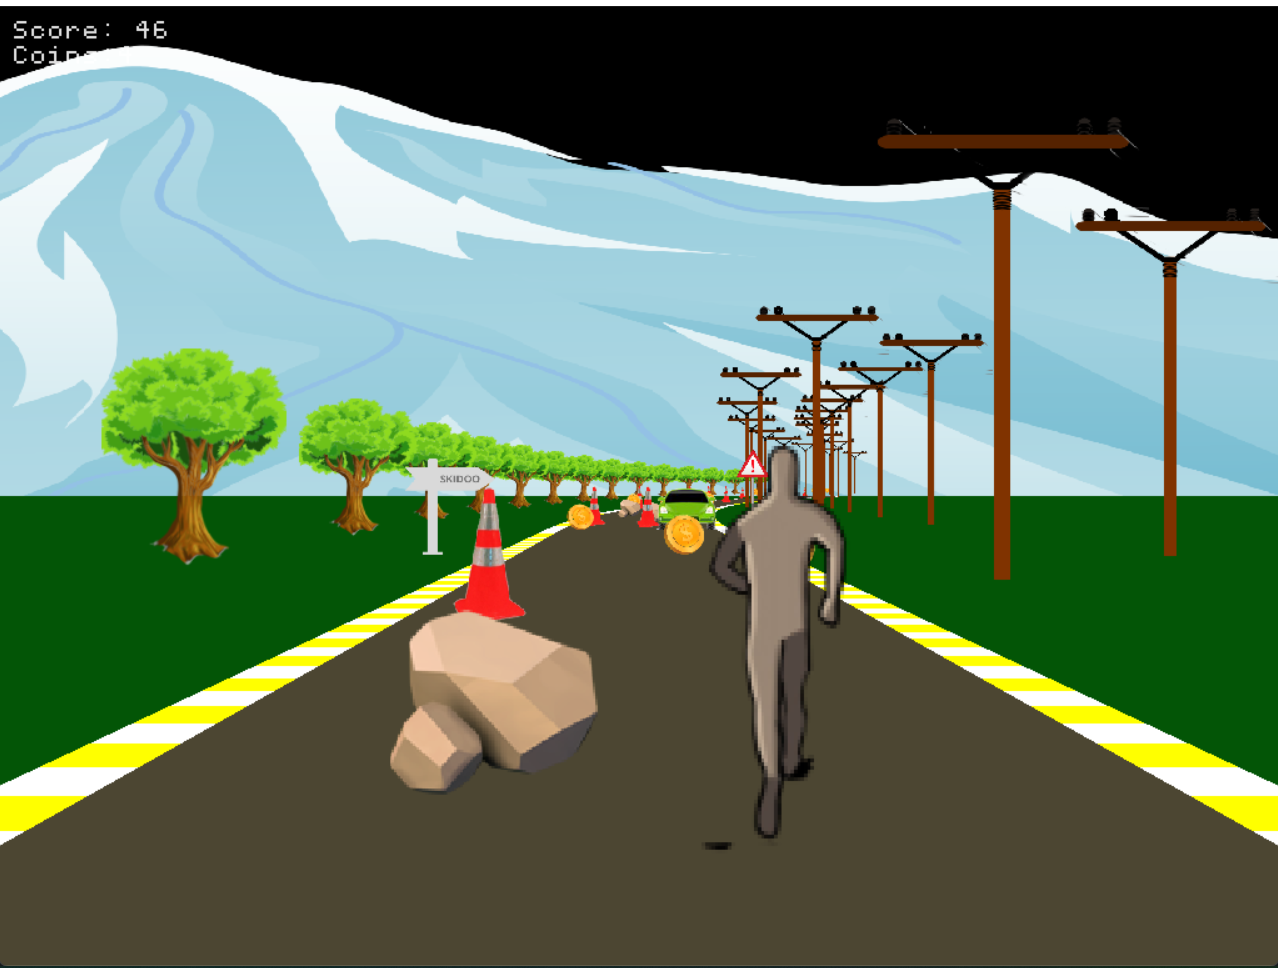
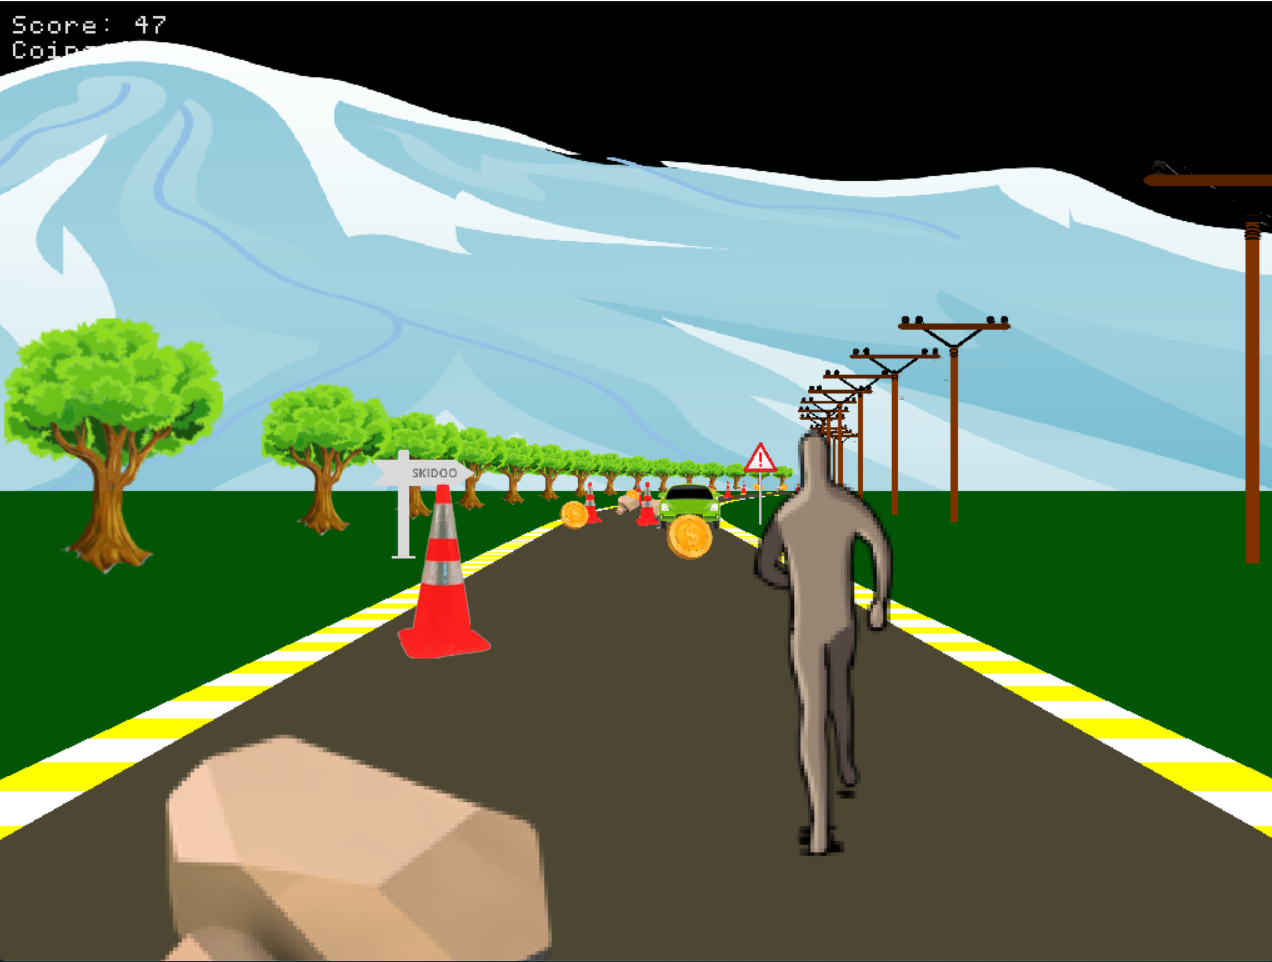
Fixed position of poles and update the in-game screenshot

diff --git a/code/line.cpp b/code/line.cpp
@@ -93,10 +93,10 @@ void generateObstacles(Sprite ob[], std::vector<Line>& lines)
         //{
         //    lines[i].spriteX = -2.7; lines[i].sprite = ob[3];
         //} //poles
-        if (i > 0 && i < 851 && i % 29 == 0)
-        {
-            lines[i].spriteX = 0.8; lines[i].sprite = ob[3];
-        } //poles
+        // if (i > 0 && i < 851 && i % 29 == 0)
+        // {
+        //     lines[i].spriteX = 0.8; lines[i].sprite = ob[3];
+        // } //poles
 //--------------ROAD DIVIEDER-------------------------------------------//
         if (i < 200 && (i % 61) == 0)
         {
